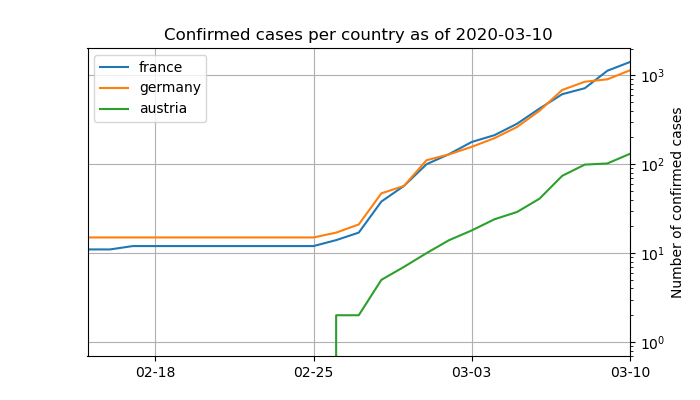
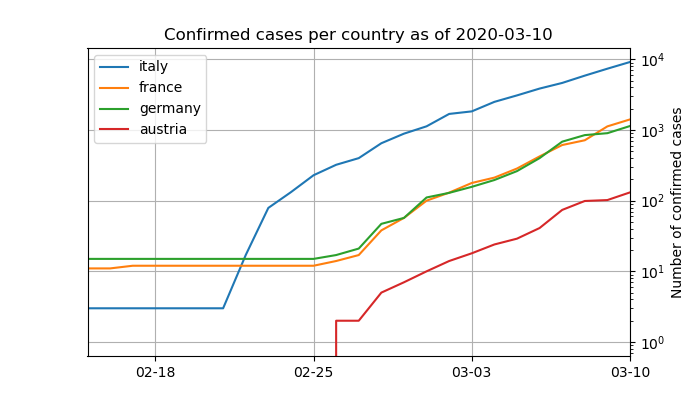
Add Italy

diff --git a/make_plots.py b/make_plots.py
@@ -1,7 +1,7 @@
 import os
 
-os.system("python covid19plot.py -dark -deaths -out middle_europe_deaths france germany austria")
-os.system("python covid19plot.py -dark -out middle_europe_count france germany austria")
+os.system("python covid19plot.py -dark -deaths -out middle_europe_deaths france germany austria italy")
+os.system("python covid19plot.py -dark -out middle_europe_count france germany austria italy")
 
 os.system("python covid19plot.py -dark -deaths -out north_europe_deaths sweden norway denmark")
 os.system("python covid19plot.py -dark -out north_europe_count sweden norway denmark")
